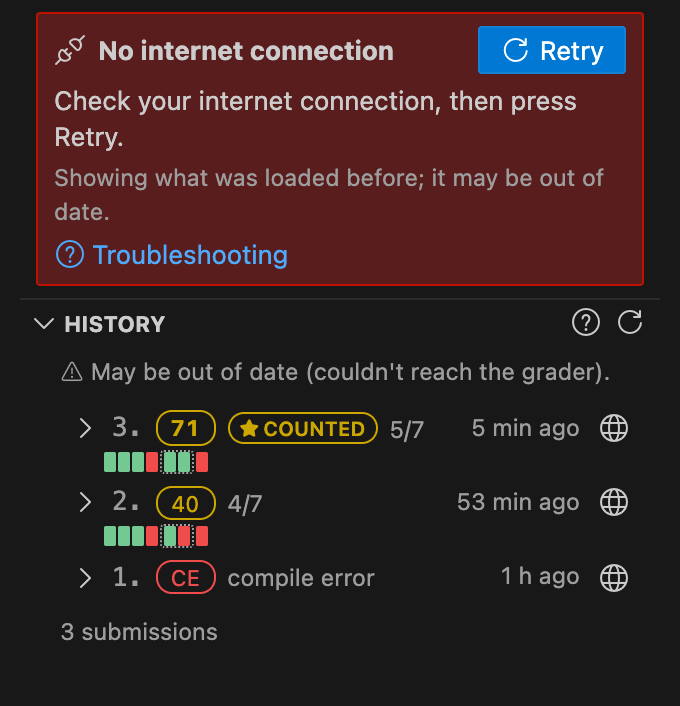
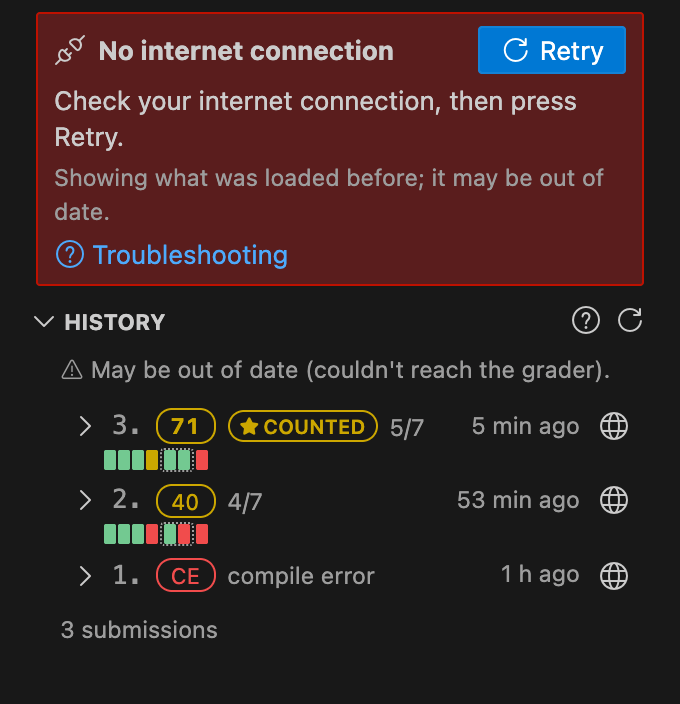
Panel fixes: History details fit 260 px, no line above the first section, full row outline, score items unbroken, period in the folder-mode note; pictures retaken

diff --git a/test/webview.test.ts b/test/webview.test.ts
@@ -246,6 +246,7 @@ describe.runIf(existsSync(resolve(__dirname, '../esbuild.mjs')))('sidebar webvie
     expect(detail.textContent).toContain('2.461 s');
     expect(detail.textContent).toContain('130.88 MB');
     expect(detail.querySelectorAll('.evals tbody tr')).toHaveLength(1);
+    expect(detail.querySelector('.evals td.verdict')!.textContent).toBe(' Correct'); // the cell that may wrap
     const [openBtn, compareBtn] = [...detail.querySelectorAll<HTMLButtonElement>('button.btn')];
     openBtn.click();
     expect(sent.at(-1)).toEqual({ type: 'openSubmissionSource', submissionId: 2460977 });
@@ -497,9 +498,10 @@ describe.runIf(existsSync(resolve(__dirname, '../esbuild.mjs')))('sidebar webvie
     const pick = cur.querySelector<HTMLSelectElement>('#submit-file')!;
     expect([...pick.options].map((o) => o.textContent)).toEqual(['Automatic: student.h', 'main.cpp', 'student.h', 'vector.h']);
     expect(pick.dataset.tip).toContain('the included file named student.*');
+    expect(pick.dataset.tip).toContain('only this file is sent. Found automatically'); // one period, not two
     const runs = cur.querySelector<HTMLSelectElement>('#run-file')!;
     expect([...runs.options].map((o) => o.textContent)).toEqual(['Automatic: main.cpp', 'main.cpp']);
-    expect(cur.textContent).toContain('only this file is sent');
+    expect(cur.textContent).toContain('The grader takes one file per submission: only this file is sent.');
     const W = doc.defaultView as unknown as typeof globalThis;
     pick.value = 'vector.h';
     pick.dispatchEvent(new W.Event('change'));
@@ -569,6 +571,23 @@ describe.runIf(existsSync(resolve(__dirname, '../esbuild.mjs')))('sidebar webvie
     post({ ...loggedIn, layout: { sections: ['current'], compact: false } });
     doc.defaultView!.dispatchEvent(new doc.defaultView!.MessageEvent('message', { data: { type: 'focus', target: 'result' } }));
     expect(doc.querySelector<HTMLElement>('#sec-result')!.hidden).toBe(true);
+  });
+
+  it('layout: only the first visible section has no line above it (the hidden banner comes first in the DOM)', () => {
+    const { doc, post } = boot();
+    const firsts = () => [...doc.querySelectorAll<HTMLElement>('#app > details.section.first-visible')].map((d) => d.id);
+    post(loggedIn);
+    expect(doc.querySelector('#app > .banner')!.nextElementSibling).not.toBeNull(); // banner (hidden) before the sections
+    expect(firsts()).toEqual(['sec-account']);
+    post({ ...loggedIn, layout: { sections: ['history', 'current'], compact: false } });
+    expect(firsts()).toEqual(['sec-history']);
+    post({ ...loggedIn, layout: { sections: ['problems'], compact: true } });
+    expect(firsts()).toEqual(['sec-problems']);
+    post({ ...base, layout: { sections: ['problems'], compact: false } }); // logged out: Account comes back first
+    expect(firsts()).toEqual(['sec-account']);
+    const css = readFileSync(resolve(__dirname, '../webview/style.css'), 'utf8');
+    expect(css).toMatch(/\.section\.first-visible\s*\{\s*border-top:\s*none/);
+    expect(css).not.toMatch(/\.section:first-child/);
   });
 
   it('Thai: the panel is built in the language of <html lang> (texts from strings.th.ts)', () => {
@@ -890,6 +909,17 @@ describe.runIf(existsSync(resolve(__dirname, '../esbuild.mjs')))('sidebar webvie
     input.dispatchEvent(new (doc.defaultView as unknown as typeof globalThis).Event('input'));
     expect([...vp.children]).toEqual(rows);
     expect(rows.filter((r) => r.hidden)).toEqual([]);
+  });
+
+  it('panel CSS: selected row outline inside the row; score facts and verdicts never cut or scroll sideways', () => {
+    const css = readFileSync(resolve(__dirname, '../webview/style.css'), 'utf8').replace(/\/\*[\s\S]*?\*\//g, '');
+    const rule = (sel: string) => [...css.matchAll(/([^{}]+)\{([^{}]*)\}/g)].find((m) => m[1].trim() === sel)?.[2] ?? '';
+    // The scrolling list clips anything outside a row: the selected row's outline is drawn inside it.
+    expect(rule('.problem-row.mapped')).toMatch(/outline-offset:\s*-1px/);
+    // "Best 60", "-10 AI assist", …: each item stays on one line; whole items wrap.
+    expect(rule('.score-facts > :not(.mono)')).toMatch(/white-space:\s*nowrap/);
+    // History details: the verdict cell wraps, so the table fits a narrow panel.
+    expect(rule('.evals td.verdict')).toMatch(/white-space:\s*normal/);
   });
 
   it('problem list CSS: rows stay in normal flow (never absolute, never a fixed height)', () => {

diff --git a/webview/style.css b/webview/style.css
@@ -27,7 +27,7 @@ body {
 /* ---------------------------------------------------------------- sections */
 
 .section { border-top: 1px solid var(--vscode-sideBarSectionHeader-border, var(--hc-border)); }
-.section:first-child { border-top: none; }
+.section.first-visible { border-top: none; } /* set by applyLayout: the banner / prompt come first in the DOM */
 .section > summary {
   list-style: none;
   display: flex;
@@ -335,6 +335,7 @@ input::placeholder { color: var(--vscode-input-placeholderForeground); }
 .problem-row.mapped {
   --row-bg: var(--vscode-list-inactiveSelectionBackground);
   outline: 1px solid var(--vscode-list-focusOutline, transparent);
+  outline-offset: -1px; /* inside the row: the scrolling list clips anything outside it */
 }
 .problem-row:hover { --row-bg: var(--vscode-list-hoverBackground); }
 .problem-row > .pill { grid-column: 1; grid-row: 1; align-self: start; margin-top: 1px; }
@@ -380,6 +381,7 @@ input::placeholder { color: var(--vscode-input-placeholderForeground); }
   background: var(--vscode-editorWidget-background, transparent);
 }
 .score-facts { display: flex; flex-wrap: wrap; gap: 4px 10px; color: var(--muted); }
+.score-facts > :not(.mono) { white-space: nowrap; } /* whole items wrap, never "-10 AI | assist" */
 .score-facts strong { color: var(--vscode-foreground); font-variant-numeric: tabular-nums; }
 .penalty { color: var(--bad); font-weight: 600; }
 .improvement { color: var(--vscode-foreground); }
@@ -408,6 +410,12 @@ input::placeholder { color: var(--vscode-input-placeholderForeground); }
 .evals { border-collapse: collapse; font-size: 0.9em; width: 100%; }
 .evals th { text-align: left; font-weight: 600; color: var(--muted); padding: 1px 6px 1px 0; }
 .evals td { padding: 1px 6px 1px 0; white-space: nowrap; }
+/* The verdict ("Time Limit Exceed") wraps, so the numbers keep their room and the table fits a narrow panel. */
+.evals td { vertical-align: baseline; }
+.evals td.verdict { position: relative; padding-left: 9px; white-space: normal; }
+.evals td.verdict .mini { position: absolute; left: 0; top: 4px; } /* hanging: a wrapped verdict lines up after the tile */
+.evals th:last-child, .evals td:last-child { padding-right: 0; }
+@media (max-width: 300px) { .evals th, .evals td { padding-right: 4px; } }
 .evals .num { text-align: right; font-variant-numeric: tabular-nums; }
 
 /* ---------------------------------------------------------------- banner */

diff --git a/webview/main.ts b/webview/main.ts
@@ -834,7 +834,7 @@ function detailBox(d: SubmissionDetailView): HTMLElement {
       body.append(
         el('tr', {},
           el('td', { class: 'num' }, String(e.index)),
-          el('td', {}, el('span', { class: `mini v-${e.kind in VERDICT_LETTER ? e.kind : 'unknown'}`, 'aria-hidden': 'true', title: e.label }), ' ', e.label.replace(/^Test \d+: /, '')),
+          el('td', { class: 'verdict' }, el('span', { class: `mini v-${e.kind in VERDICT_LETTER ? e.kind : 'unknown'}`, 'aria-hidden': 'true', title: e.label }), ' ', e.label.replace(/^Test \d+: /, '')),
           el('td', { class: 'num' }, e.score === null ? '–' : fmt(e.score)),
           el('td', { class: 'num' }, seconds(e.timeMs)),
           el('td', { class: 'num' }, megabytes(e.memoryKb)),
@@ -1106,7 +1106,7 @@ function rolePicker(id: string, label: string, role: 'submit' | 'run', file: str
   const pick = el('select', {
     id,
     disabled: !files.length,
-    title: why && !chosen ? `${tip}. ${W.whyTip(why)}` : tip,
+    title: why && !chosen ? `${tip}${/[.!?]$/.test(tip) ? '' : '.'} ${W.whyTip(why)}` : tip,
     onchange: (e: Event) => send({ type: 'setFolderRole', role, file: (e.target as HTMLSelectElement).value }),
   });
   pick.append(el('option', { value: '', selected: !chosen }, detected ? W.automatic(detected) : askText));
@@ -1341,7 +1341,11 @@ function applyLayout(s: ViewState): void {
   if (key === sectionOrderKey) return;
   sectionOrderKey = key;
   const all: Record<SectionId, ReturnType<typeof section>> = { account: sAccount, current: sCurrent, result: sResult, history: sHistory, problems: sProblems };
-  for (const [id, sec] of Object.entries(all) as [SectionId, ReturnType<typeof section>][]) sec.details.hidden = !order.includes(id);
+  for (const [id, sec] of Object.entries(all) as [SectionId, ReturnType<typeof section>][]) {
+    sec.details.hidden = !order.includes(id);
+    // No line above the first visible section (the hidden banner / prompt come first, so :first-child never matches).
+    sec.details.classList.toggle('first-visible', id === order[0]);
+  }
   // Move only when the order changed (existing elements are moved, nothing is rebuilt).
   app.append(banner, promptBar, ...order.map((id) => all[id].details), ...(Object.keys(all) as SectionId[]).filter((id) => !order.includes(id)).map((id) => all[id].details));
 }

diff --git a/scripts/readmeShots.ts b/scripts/readmeShots.ts
@@ -66,9 +66,10 @@ function sample() {
     problem(1420, '03_Loop_11', '03_Loop_★_Sum_of_Digits', score(null), ['Loop']),
   ];
 
-  const verdicts = parseGraderComment('PPP-[PP]-');
+  // Test 4 timed out: History's details show a long verdict ("Time Limit Exceed") that has to fit a narrow panel.
+  const verdicts = parseGraderComment('PPPT[PP]-');
   const history: HistoryEntry[] = [
-    { submissionId: 2461102, number: 3, points: 71, status: 'done', comment: 'PPP-[PP]-', submittedAt: minutesAgo(5), language: 'C++', compileError: false, counted: true, verdicts },
+    { submissionId: 2461102, number: 3, points: 71, status: 'done', comment: 'PPPT[PP]-', submittedAt: minutesAgo(5), language: 'C++', compileError: false, counted: true, verdicts },
     { submissionId: 2460877, number: 2, points: 40, status: 'done', comment: 'PPP-[P-]-', submittedAt: minutesAgo(53), language: 'C++', compileError: false, counted: false, verdicts: parseGraderComment('PPP-[P-]-') },
     { submissionId: 2460512, number: 1, points: 0, status: 'compilation_error', comment: 'Compilation error', submittedAt: minutesAgo(70), language: 'C++', compileError: true, counted: false, verdicts: [] },
   ];
@@ -105,7 +106,7 @@ function sample() {
     submit: { enabled: true, busy: false, reason: null, label: S.submitLabel },
     result: {
       phase: 'done', problemId: 1360, problemName: '00_Intro_11', submissionId: 2461102, submissionUrl: `${BASE_URL}/submissions/2461102`,
-      number: 3, points: 71, comment: 'PPP-[PP]-', verdicts, compileError: false, compilerMessage: null,
+      number: 3, points: 71, comment: 'PPPT[PP]-', verdicts, compileError: false, compilerMessage: null,
       improvement: G.countedImproved(40, 71), message: null,
     },
     gradingElsewhere: null,

diff --git a/src/shared/strings.ts b/src/shared/strings.ts
@@ -569,7 +569,7 @@ const EN_W = {
   linkOnlyFile: 'Link only this file',
   folderLinked: (folder: string) => `Folder linked by you: ${folder}`,
   submits: 'Submits',
-  submitFileTip: 'The grader takes one file per submission: only this file is sent',
+  submitFileTip: 'The grader takes one file per submission: only this file is sent.',
   submitFileAsk: 'Asked on the first submit',
   runs: 'Runs',
   runFileTip: 'Test cases are loaded for this program, and Run tests runs it (it includes the file you submit)',
